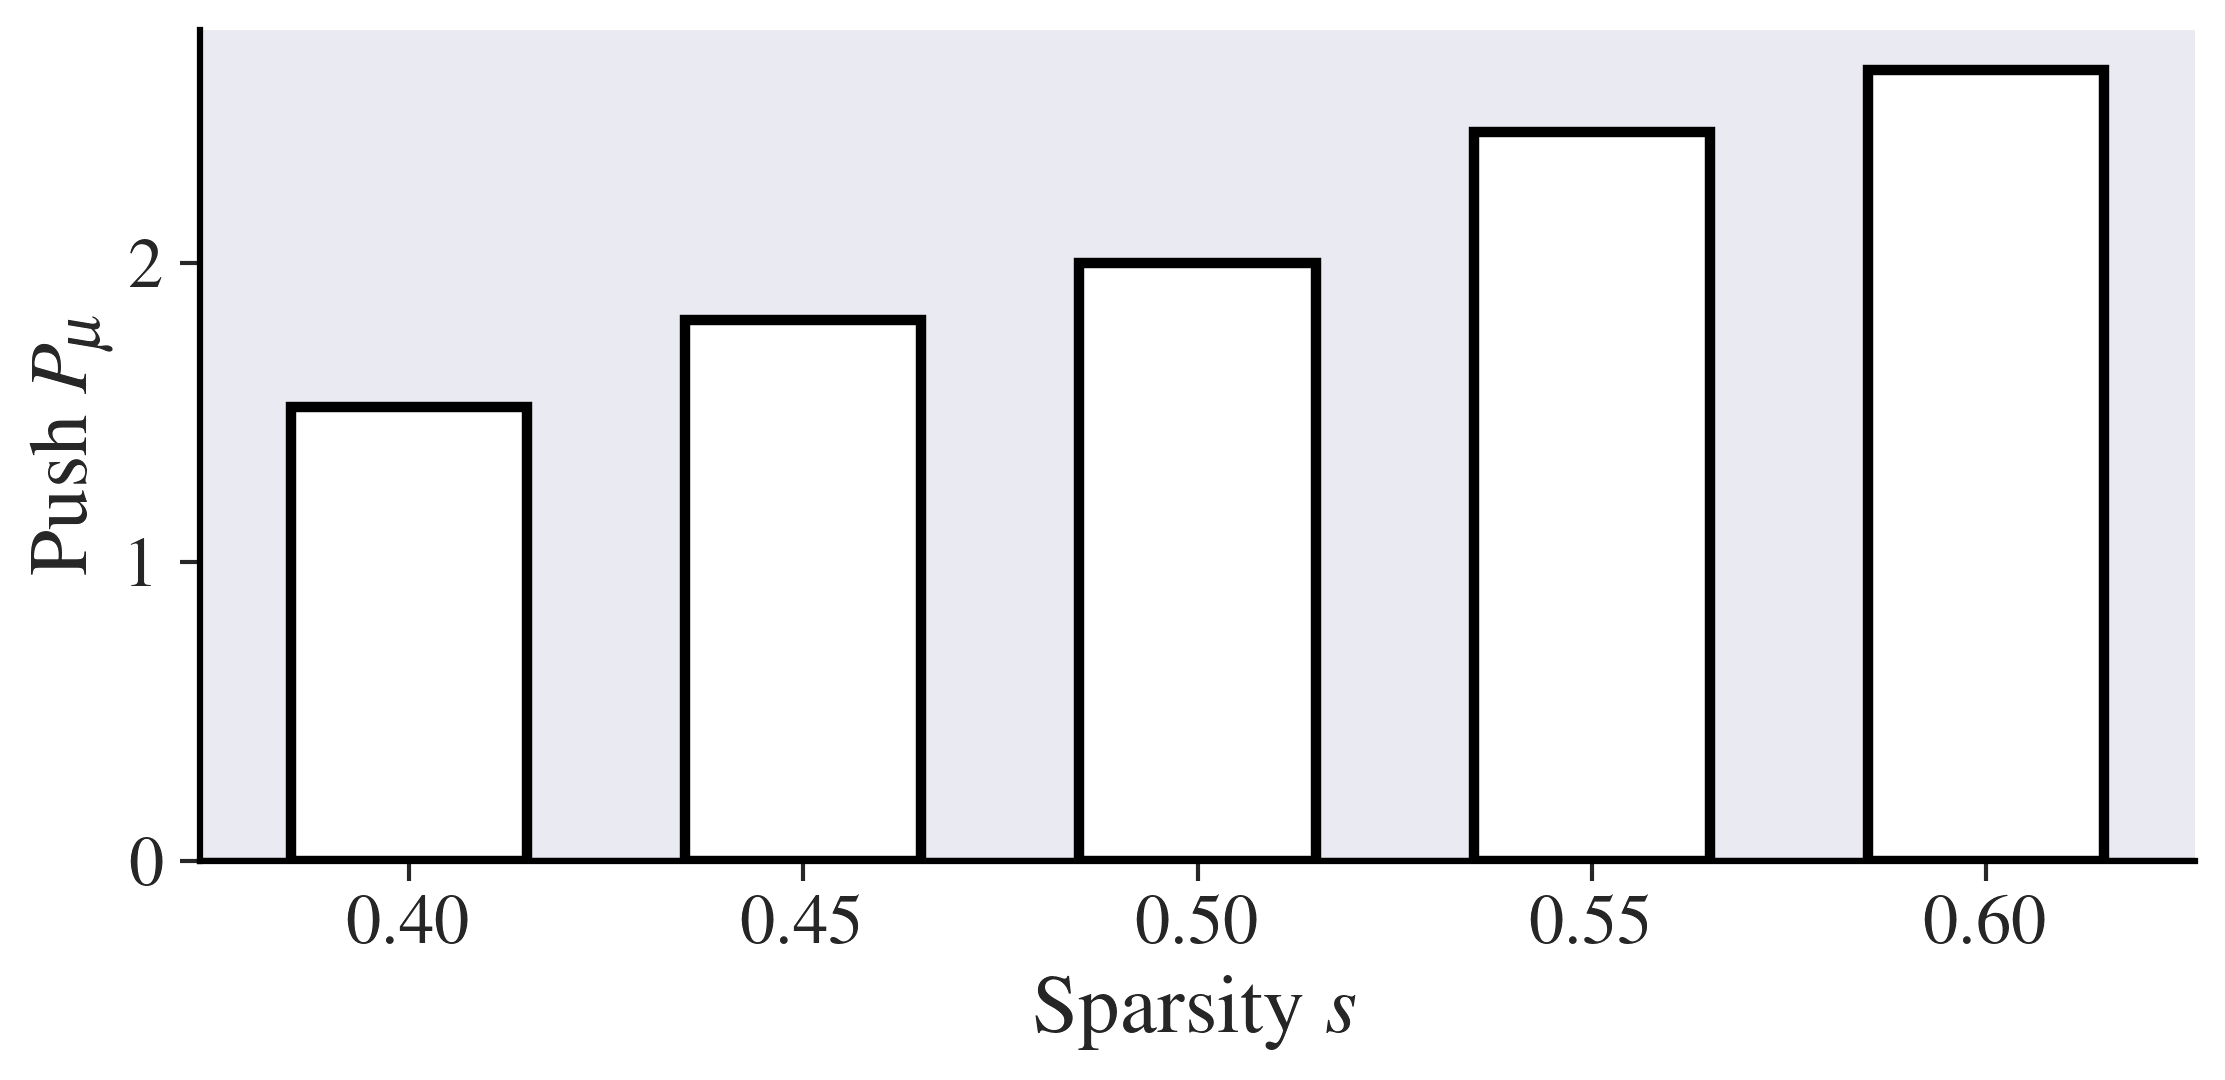
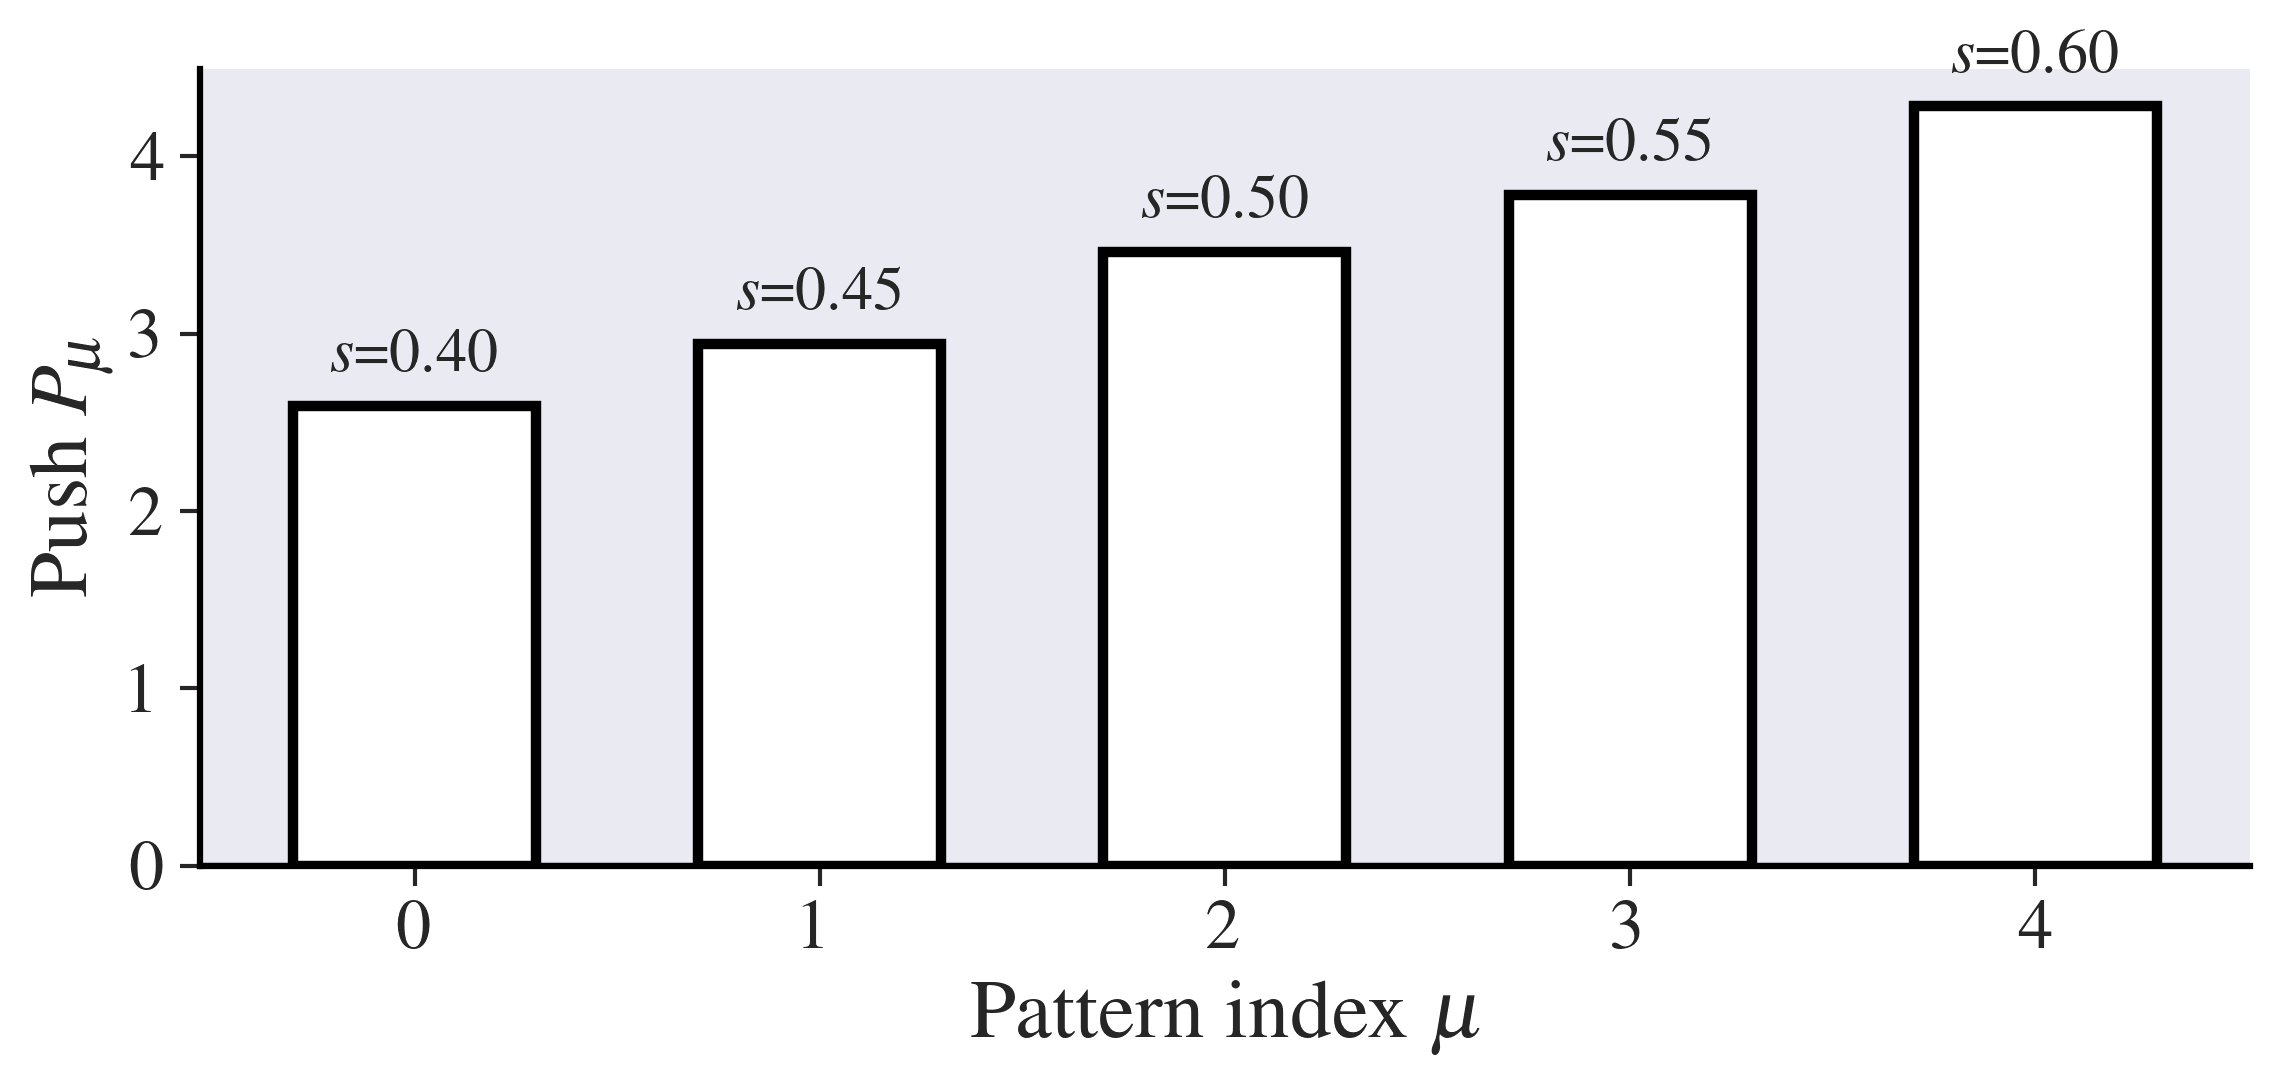
maybe

diff --git a/simulations/main_write_sleep/scripts/explo/pattern_push_heterogeneous.py b/simulations/main_write_sleep/scripts/explo/pattern_push_heterogeneous.py
@@ -59,7 +59,7 @@ plt.rcParams.update({
 
 # %% Generate patterns with heterogeneous sparsities
 sparsities = [0.40, 0.45, 0.50, 0.55, 0.60]
-N = 200
+N = 600
 M = len(sparsities)
 
 # Generate each pattern with its specific sparsity (sparsity = fraction of active units)
@@ -87,9 +87,6 @@ W = np.loadtxt(sim_dir / "weights.data")
 X = np.loadtxt(sim_dir / "patterns.data")
 v_N = np.ones(N) * 0.5
 
-# Create x-axis labels with sparsity values
-sparsity_labels = [f'{s:.2f}' for s in sparsities]
-
 # Network derivative at neutral state
 sigma = lambda x: 1.0 / (1.0 + np.exp(-x))
 f = -v_N + sigma(W @ v_N)
@@ -104,16 +101,20 @@ print("Push values at neutral state (heterogeneous sparsities):")
 for mu in range(M):
     print(f"  Pattern {mu} (s={sparsities[mu]:.2f}): P_{mu} = {P[mu]:.4f}")
 
-# %% Plot push vs sparsity
+# %% Plot push vs pattern index with sparsity annotations
 fig, ax = plt.subplots(figsize=(8, 4))
 
-ax.bar(range(M), P, facecolor='white', edgecolor='black', linewidth=2.5, width=0.6)
+bars = ax.bar(range(M), P, facecolor='white', edgecolor='black', linewidth=2.5, width=0.6)
 ax.axhline(0, color='black', linewidth=1.5)
 
-ax.set_xlabel(r'Sparsity $s$')
+# Add sparsity annotations above each bar
+for mu, (bar, s) in enumerate(zip(bars, sparsities)):
+    ax.annotate(f'$s$={s:.2f}', xy=(bar.get_x() + bar.get_width()/2, bar.get_height()),
+                xytext=(0, 5), textcoords='offset points', ha='center', va='bottom', fontsize=15)
+
+ax.set_xlabel(r'Pattern index $\mu$')
 ax.set_ylabel(r'Push $P_\mu$')
 ax.set_xticks(range(M))
-ax.set_xticklabels(sparsity_labels)
 ax.tick_params(axis='both', which='both', bottom=True, left=True, top=False, right=False)
 
 for spine in ['bottom', 'left']:
@@ -176,7 +177,7 @@ sleep_config = setup_sleep_experiment(
     name="pattern_push_heterogeneous",
     trained_networks_dir=DATA_DIR / "trained_networks" / "pattern_push_heterogeneous",
     params={
-        "beta": 0.1, "delta": 0.01, "max_queries": M,
+        "beta": 0.15, "delta": 0.01, "max_queries": M,
         "stop_on_spurious": 0, "stop_on_all_found": 0,
         "save_inhibition_matrices": 1
     }
@@ -224,9 +225,11 @@ for t in range(num_iters):
     for spine in ['top', 'right']:
         ax.spines[spine].set_visible(False)
 
-axes[-1].set_xlabel(r'Sparsity $s$', fontsize=16)
+# Two-line x-tick labels: pattern index with sparsity below
+xtick_labels = [f'{mu}\n$(s={sparsities[mu]:.2f})$' for mu in range(M)]
+axes[-1].set_xlabel(r'Pattern index $\mu$', fontsize=16)
 axes[-1].set_xticks(range(M))
-axes[-1].set_xticklabels(sparsity_labels)
+axes[-1].set_xticklabels(xtick_labels, fontsize=12)
 plt.tight_layout()
 plt.savefig(PLOTS_DIR / 'pattern_push_heterogeneous_AR_evolution.png', dpi=300, bbox_inches='tight')
 print(f"Saved to {PLOTS_DIR / 'pattern_push_heterogeneous_AR_evolution.png'}")
